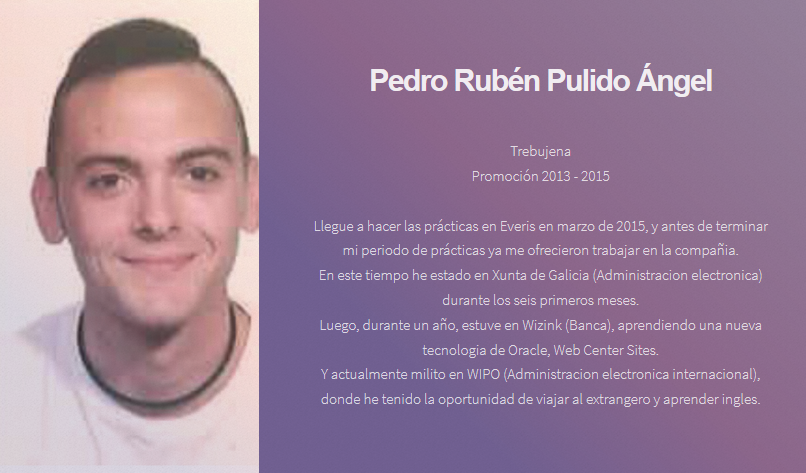
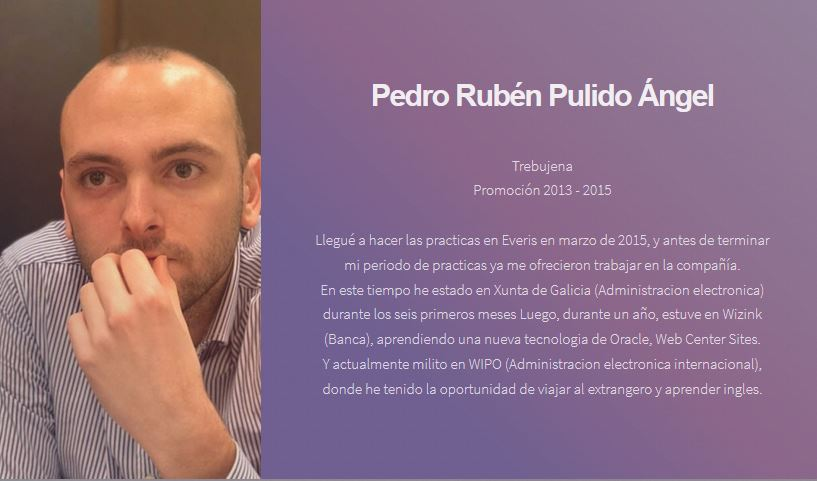
14-01-20

diff --git a/index.html b/index.html
@@ -43,6 +43,8 @@
 								</div>
 							</section>
 
+					
+
 						<!-- Panel (Spotlight) -->
 							<section class="panel banner left" id="first">
 								<div class="content color4 span-4-75">
@@ -91,21 +93,21 @@
 										<li>
 										  <div class="link">Bases de Datos<i class="fa fa-chevron-down"></i></div>
 										  <ul class="submenu">
-											<li><a href="https://www.w3schools.com/sql" target="_blank" style="color: transparent;text-decoration: none; margin-top: -20%;"><img src="images/sql.png" width="20%" height="20%"></a><a href="https://docs.oracle.com/en/database/oracle/oracle-database/index.html" target="_blank" style="color: transparent;text-decoration: none;"><img src="images/oracle-logo.png" width="40%" height="40%"></a></li>
+											<li><a href="https://docs.oracle.com/en/database/oracle/oracle-database/index.html" target="_blank" style="color: transparent;text-decoration: none; margin-left: -20%;"><img src="images/oracle-logo.png" width="70%" height="70%"></a><a href="https://www.w3schools.com/sql" target="_blank" style="color: transparent;text-decoration: none; "><img src="images/sql.png" width="30%" height="30%" style="margin-bottom: 15%;"></a></li>
 																					
 										  </ul>
 										</li>
 										<li>
 										  <div class="link">Entornos de desarrollo<i class="fa fa-chevron-down"></i></div>
 										  <ul class="submenu">
-											<li><a href="https://docs.oracle.com/en/java/" target="_blank" style="color: transparent;text-decoration: none;"><img src="images/Java.png" width="20%" height="20%"></a><a href="https://github.com/" target="_blank" style="color: transparent;text-decoration: none; margin-left: 20%; margin-left: 20%;"><img src="images/github.png" width="20%" height="20%"></a></li>
+											<li><a href="https://docs.oracle.com/en/java/" target="_blank" style="color: transparent;text-decoration: none;"><img src="images/Java.png" width="20%" height="20%"></a><a href="https://github.com/" target="_blank" style="color: transparent;text-decoration: none; margin-left: 20%; margin-left: 20%;"><img src="images/github.png" width="45%" height="45%"></a></li>
 											
 										  </ul>
 										</li>
 										<li>
 										  <div class="link">Sistemas Informáticos<i class="fa fa-chevron-down"></i></div>
 										  <ul class="submenu">
-											<li><a href="https://www.linux.org/" target="_blank" style="color: transparent;text-decoration: none;"><img src="images/linux.png" width="20%" height="20%"></a><a href="https://www.cisco.com/c/en/us/training-events/training-certifications/certifications/associate/ccna.html" target="_blank" style="color: transparent;text-decoration: none; margin-left: 20%;"><img src="images/cisco.png" width="20%" height="20%"></a><a href="https://es.wikipedia.org/wiki/Hardware" target="_blank" style="color: transparent;text-decoration: none; margin-left: 20%;"><img src="images/hardware.png" width="20%" height="20%"></a></li>
+											<li><a href="https://www.linux.org/" target="_blank" style="color: transparent;text-decoration: none;"><img src="images/linux.png" width="20%" height="20%"></a><a href="https://www.cisco.com/c/en/us/training-events/training-certifications/certifications/associate/ccna.html" target="_blank" style="color: transparent;text-decoration: none; margin-left: 10%;"><img src="images/cisco.png" width="30%" height="30%"></a><a href="https://es.wikipedia.org/wiki/Hardware" target="_blank" style="color: transparent;text-decoration: none; margin-left: 15%;"><img src="images/hardware.png" width="20%" height="20%"></a></li>
 											
 										  </ul>
 										</li>
@@ -119,7 +121,7 @@
 										<li>
 											<div class="link">Lenguajes de marcas y sistemas de gestión de información<i class="fa fa-chevron-down"></i></div>
 											<ul class="submenu">
-											  <li><a href="https://www.w3schools.com/html" target="_blank" style="color: transparent;text-decoration: none;"><img src="images/html.png" width="20%" height="20%"></a><a href="https://www.w3schools.com/css" target="_blank" style="color: transparent;text-decoration: none; margin-left: 20%;"><img src="images/CSS.png" width="20%" height="20%"></a><a href="https://www.w3schools.com/php" target="_blank" style="color: transparent;text-decoration: none; margin-left: 20%;"><img src="images/php.png" width="20%" height="20%"></a></li>
+											  <li><a href="https://www.w3schools.com/html" target="_blank" style="color: transparent;text-decoration: none;"><img src="images/html.png" width="20%" height="20%"></a><a href="https://www.w3schools.com/css" target="_blank" style="color: transparent;text-decoration: none; margin-left: 10%;"><img src="images/CSS.png" width="20%" height="20%"></a><a href="https://www.w3schools.com/php" target="_blank" style="color: transparent;text-decoration: none; margin-left: 10%;"><img src="images/php.png" width="30%" height="30%"></a></li>
 											</ul>
 										  </li>
 										  <li>
@@ -151,45 +153,32 @@
 										<li>
 										  <div class="link">Despliegue de Aplicaciones Web<i class="fa fa-chevron-down"></i></div>
 										  <ul class="submenu">
-											<li><img src="images/ubuntu.png" width="20%" height="20%"> Ubuntu Server </span></li>
-											<li><img src="images/wordpress.png" width="20%" height="20%"> Wordpress </span></li>
+											<li><a href="https://ubuntu.com/server" target="_blank" style="color: transparent;text-decoration: none;"><img src="images/ubuntu.png" width="30%" height="30%"></a> <a href="https://es.wordpress.com/" target="_blank" style="color: transparent;text-decoration: none; margin-left: 20%;"><img src="images/wordpress.png" width="30%" height="30%"></a></li>
 											
 										  </ul>
 										</li>
 										<li>
 										  <div class="link">Desarrollo Web en Entorno Servidor<i class="fa fa-chevron-down"></i></div>
 										  <ul class="submenu">
-											<li><img src="images/Java.png" width="20%" height="20%"> Java </span></li>
-											<li><img src="images/html.png" width="20%" height="20%"> HTML </span></li>
-											<li><img src="images/CSS.png" width="20%" height="20%"> CSS </span></li>
-											<li><img src="images/jsp.png" width="40%" height="40%"></li>
-											<li><img src="images/netbeans.png" width="40%" height="40%"></li>
+											<li><a href="https://docs.oracle.com/en/java/" target="_blank" style="color: transparent;text-decoration: none;"><img src="images/Java.png" width="17%" height="17%"></a><a href="https://www.w3schools.com/html" target="_blank" style="color: transparent;text-decoration: none; margin-left: 20%;"><img src="images/html.png" width="23%" height="23%"></a><a href="https://www.w3schools.com/css" target="_blank" style="color: transparent;text-decoration: none; margin-left: 15%;"><img src="images/CSS.png" width="20%" height="20%"></a><a href="https://docs.oracle.com/javaee/5/tutorial/doc/bnagx.html" target="_blank" style="color: transparent;text-decoration: none;"><img src="images/jsp.png" width="45%" height="45%"></a><a href="https://netbeans.org/" target="_blank" style="color: transparent;text-decoration: none; margin-left: 5%;"><img src="images/netbeans.png" width="50%" height="50%"></a></li>
 										  </ul>
 										</li>
 										<li>
 										  <div class="link">Desarrollo Web en Entorno Cliente<i class="fa fa-chevron-down"></i></div>
 										  <ul class="submenu">
-											<li><img src="images/html.png" width="20%" height="20%"> HTML </span></li>
-											<li><img src="images/CSS.png" width="20%" height="20%"> CSS </span></li>
-											<li><img src="images/javascript.png" width="20%" height="20%"> JavaScript </span></li>
-											<li><img src="images/ajax.png" width="20%" height="20%"> Ajax </span></li>
+											<li><a href="https://www.w3schools.com/html" target="_blank" style="color: transparent;text-decoration: none;"><img src="images/html.png" width="23%" height="23%"></a><a href="https://www.w3schools.com/css" target="_blank" style="color: transparent;text-decoration: none; margin-left: 30%;"><img src="images/CSS.png" width="20%" height="20%"></a><a href="https://www.w3schools.com/js" target="_blank" style="color: transparent;text-decoration: none; margin-left: 22%;"> <img src="images/javascript.png" width="20%" height="20%"></a><a href="https://www.w3schools.com/xml/ajax_intro.asp" target="_blank" style="color: transparent;text-decoration: none; margin-left: 33%;"><img src="images/ajax.png" width="20%" height="20%"></a></li>
 										  </ul>
 										</li>
 										<li>
 										  <div class="link">Diseño de Interfaces Web<i class="fa fa-chevron-down"></i></div>
 										  <ul class="submenu">
-											<li><img src="images/html.png" width="20%" height="20%"> HTML </span></li>
-											<li><img src="images/CSS.png" width="20%" height="20%"> CSS </span></li>
-											<li><img src="images/php.png" width="20%" height="20%"> PHP </span></li>
-											<li><img src="images/angular.png" width="20%" height="20%"> Angular </span></li>
+											<li><a href="https://www.w3schools.com/html" target="_blank" style="color: transparent;text-decoration: none;"><img src="images/html.png" width="23%" height="23%"></a><a href="https://www.w3schools.com/css" target="_blank" style="color: transparent;text-decoration: none;margin-left: 30%; margin-right: 2%;"><img src="images/CSS.png" width="20%" height="20%"></a><a href="https://www.w3schools.com/php" target="_blank" style="color: transparent;text-decoration: none; margin-left: 3%;"><img src="images/php.png" width="30%" height="30%"></a><a href="https://www.w3schools.com/angular/" target="_blank" style="color: transparent;text-decoration: none; margin-left: 17%;"><img src="images/angular.png" width="30%" height="30%"></a></li>
 										  </ul>
 										</li>
 										<li>
 											<div class="link">Horas de Libre Configuración<i class="fa fa-chevron-down"></i></div>
 											<ul class="submenu">
-											<li><span class="icon solid fab fa-java bigger" > Java </span></li>
-											<li><img src="images/jsp.png" width="40%" height="40%"></li>
-											<li><img src="images/spring.png" width="40%" height="40%"></li>
+											<li><a href="https://docs.oracle.com/en/java/" target="_blank" style="color: transparent;text-decoration: none;"><img src="images/Java.png" width="17%" height="17%"></a><a href="https://docs.oracle.com/javaee/5/tutorial/doc/bnagx.html" target="_blank" style="color: transparent;text-decoration: none;margin-left: 30%;"><img src="images/jsp.png" width="50%" height="50%"></a><a href="https://spring.io/" target="_blank" style="color: transparent;text-decoration: none; margin-left: 20%;"><img src="images/spring.png" width="50%" height="50%"></a></li>
 
 											</ul>
 										  </li>
@@ -211,8 +200,51 @@
 											</ul>
 								</div>
 							</section>
+						
+							<!-- Panel (Spotlight) -->
+							<section class="panel banner right"  id="fifth" >
+								<div class="content color1 span-3-75">
+									
+									<ul id="accordion3" class="accordion">
+										<li>
+										  <div class="link">José María Villalba Gerena<i class="fa fa-chevron-down"></i></div>
+										  <ul class="submenu">
+											<li><a href="images/josemari1.jpeg" target="_blank" style="color: transparent;text-decoration: none; margin-left: 20%;"><img src="images/josemari1.jpeg" width="50%" height="50%"></a></li>
+																					
+										  </ul>
+										</li>
+										<li>
+											<div class="link">Pepa Ruiz Reyes<i class="fa fa-chevron-down"></i></div>
+										  <ul class="submenu">
+											<li><a href="https://spring.io/" target="_blank" style="color: transparent;text-decoration: none; margin-left: 20%;"><img src="images/josemari.jpeg" width="50%" height="50%"></a></li>
+																					
+										  </ul>
+										</li>
+										<li>
+											<div class="link">Jesús Alcocer Fernández<i class="fa fa-chevron-down"></i></div>
+										  <ul class="submenu">
+											<li><a href="https://docs.oracle.com/en/database/oracle/oracle-database/index.html" target="_blank" style="color: transparent;text-decoration: none; margin-left: -20%;"><img src="images/oracle-logo.png" width="70%" height="70%"></a><a href="https://www.w3schools.com/sql" target="_blank" style="color: transparent;text-decoration: none; "><img src="images/sql.png" width="30%" height="30%" style="margin-bottom: 15%;"></a></li>
+																					
+										  </ul>
+										</li>
+										<li>
+											<div class="link">Cristobalina Romero García<i class="fa fa-chevron-down"></i></div>
+										  <ul class="submenu">
+											<li><a href="https://docs.oracle.com/en/database/oracle/oracle-database/index.html" target="_blank" style="color: transparent;text-decoration: none; margin-left: -20%;"><img src="images/oracle-logo.png" width="70%" height="70%"></a><a href="https://www.w3schools.com/sql" target="_blank" style="color: transparent;text-decoration: none; "><img src="images/sql.png" width="30%" height="30%" style="margin-bottom: 15%;"></a></li>
+																					
+										  </ul>
+										</li>
+									</ul>
+								</div>
+								<div class="content color0 span-1-75" data-position="25% 25%">
+									<h1 class="major">Los profesores</h1>
+									<ul class="actions">
+											<li><a href="#sixth" class="button primary color1 circle icon solid fas fa-angle-right">Next</a></li>
+										</ul>
+								</div>
+							</section>
 						<!-- Panel -->
-							<section class="panel" id="fifth">
+							<section class="panel" id="sixth">
 								<div class="intro color4" id="estrellas">
 										<h3>HALL OF FAME<br><br>
 											<ul class="actions">
@@ -237,10 +269,10 @@
 									</div> -->
 									<div class="gallery">
 											<a href="images/Flores.PNG" class="image filtered span-2-5" data-position="top"><img src="images/Flores1.PNG" alt="" /></a>
-												<a href="images/Pruanno1.PNG" class="image filtered span-2-5" data-position="top"><img src="images/Pruanno.PNG" alt="" class="image filtered span-3" data-position="top" /></a>
+												<a href="images/Pruanno1.PNG" class="image filtered span-2-5" data-position="top"><img src="images/Pruanno.jpeg" alt="" class="image filtered span-3" data-position="top" /></a>
 												<a href="images/Bernal1.PNG" class="image filtered span-2-5" data-position="top"><img src="images/Bernal.PNG" alt="" /></a>
-												<a href="images/Pulido1.PNG" class="image filtered span-2-5" data-position="top"><img src="images/Pulido.PNG" alt="" /></a>
-												<a href="images/Vazquez1.PNG" class="image filtered span-2-5" data-position="top"><img src="images/Vazquez.PNG" alt="" /></a>
+												<a href="images/Pulido1.PNG" class="image filtered span-2-5" data-position="top"><img src="images/Pulido.jpeg" alt="" /></a>
+												<a href="images/Vazquez1.PNG" class="image filtered span-2-5" data-position="left"><img src="images/Vazquez.jpeg" alt="" /></a>
 										
 											
 									</div>
@@ -256,14 +288,14 @@
 							</section>
 
 						<!-- Panel -->
-							<section class="panel color4-alt" id="sixth">
+							<section class="panel color4-alt" id="seventh">
 								<div class="intro color2">
 										
 
 									<h1 class="major">Las clases</h1>
 									<br><br><p></p>
 									<ul class="actions">
-										<li><a href="#seventh" class="button primary color1 circle icon solid fas fa-angle-right">Next</a></li>
+										<li><a href="#eighth" class="button primary color1 circle icon solid fas fa-angle-right">Next</a></li>
 									</ul>
 								</div>
 								<div class="gallery">
@@ -279,14 +311,14 @@
 								
 							</section>
 
-							<section class="panel color4-alt" id="seventh">
+							<section class="panel color4-alt" id="eighth">
 									<div class="intro color4">
 											
 	
 										<h2 class="major">Las excursiones</h2>
 										<p><br>Visitas a un CDP en primero y el CodeFest de Everis en segundo.</p>
 										<ul class="actions">
-											<li><a href="#eighth" class="button primary color1 circle icon solid fas fa-angle-right">Next</a></li>
+											<li><a href="#ninth" class="button primary color1 circle icon solid fas fa-angle-right">Next</a></li>
 										</ul>
 									</div>
 									<div class="gallery">
@@ -309,14 +341,14 @@
 									
 								</section>
 
-								<section class="panel color4-alt" id="eighth">
+								<section class="panel color4-alt" id="ninth">
 									<div class="intro color2">
 											
 	
 										<h1 class="major">Empresas con las que trabajamos<br></h1>
 										<p><br>Trabajamos con empresas de la provincia de Cádiz y Sevilla.</p>
 										<ul class="actions">
-											<li><a href="#ninth" class="button primary color1 circle icon solid fas fa-angle-right">Next</a></li>
+											<li><a href="#tenth" class="button primary color1 circle icon solid fas fa-angle-right">Next</a></li>
 										</ul>
 									</div>
 									<div class="gallery">
@@ -333,7 +365,7 @@
 								</section>
 							<!-- Panel -->
 							
-							<section class="panel color4-alt" id="ninth">
+							<section class="panel color4-alt" id="tenth">
 								<div class="intro color4">
 									<h1 class="major">No dudes en ponerte en contacto con nosotros.</h1>
 									<p>Escribenos un mensaje con tus inquietudes y te responderemos lo antes posible</p>

diff --git a/assets/js/acordeon.js b/assets/js/acordeon.js
@@ -24,5 +24,6 @@ function acordeon() {
 	}	
 
     var accordion = new Accordion($('#accordion'), false);
-    var accordion2 = new Accordion($('#accordion2'), false);
+	var accordion2 = new Accordion($('#accordion2'), false);
+	var accordion3 = new Accordion($('#accordion3'), false);
 }
